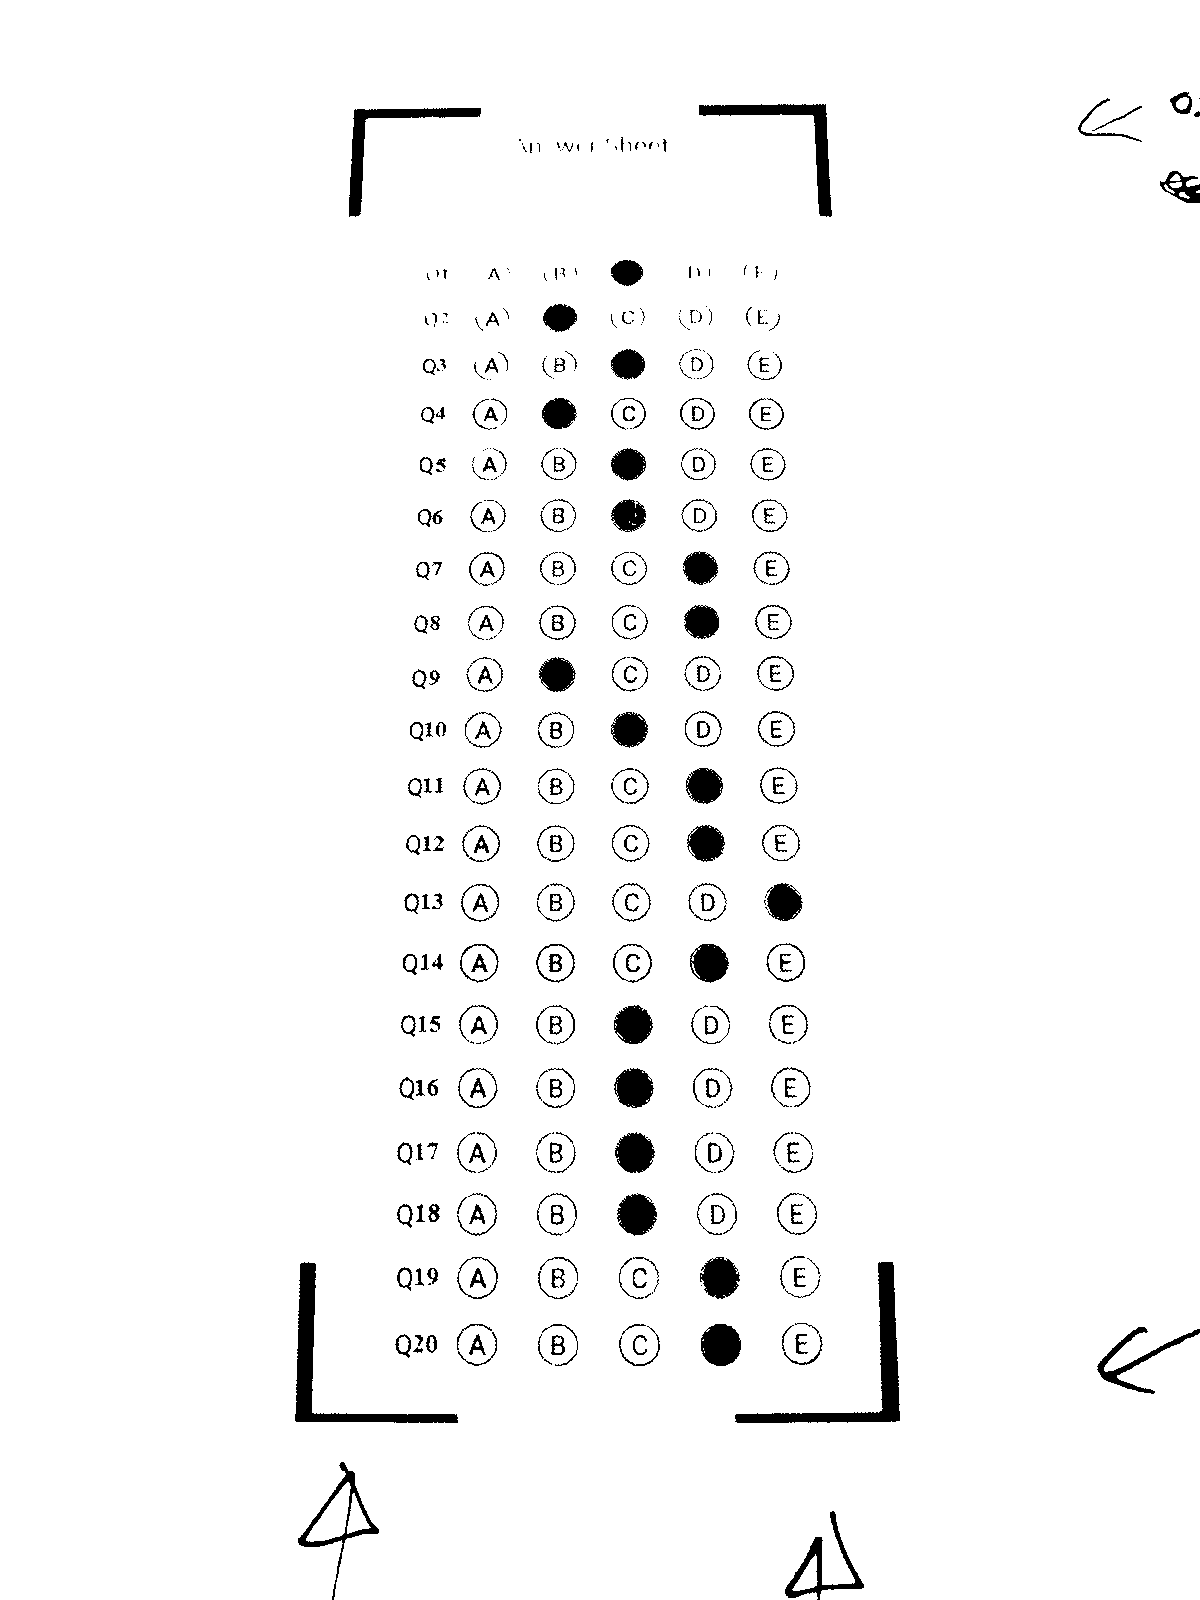
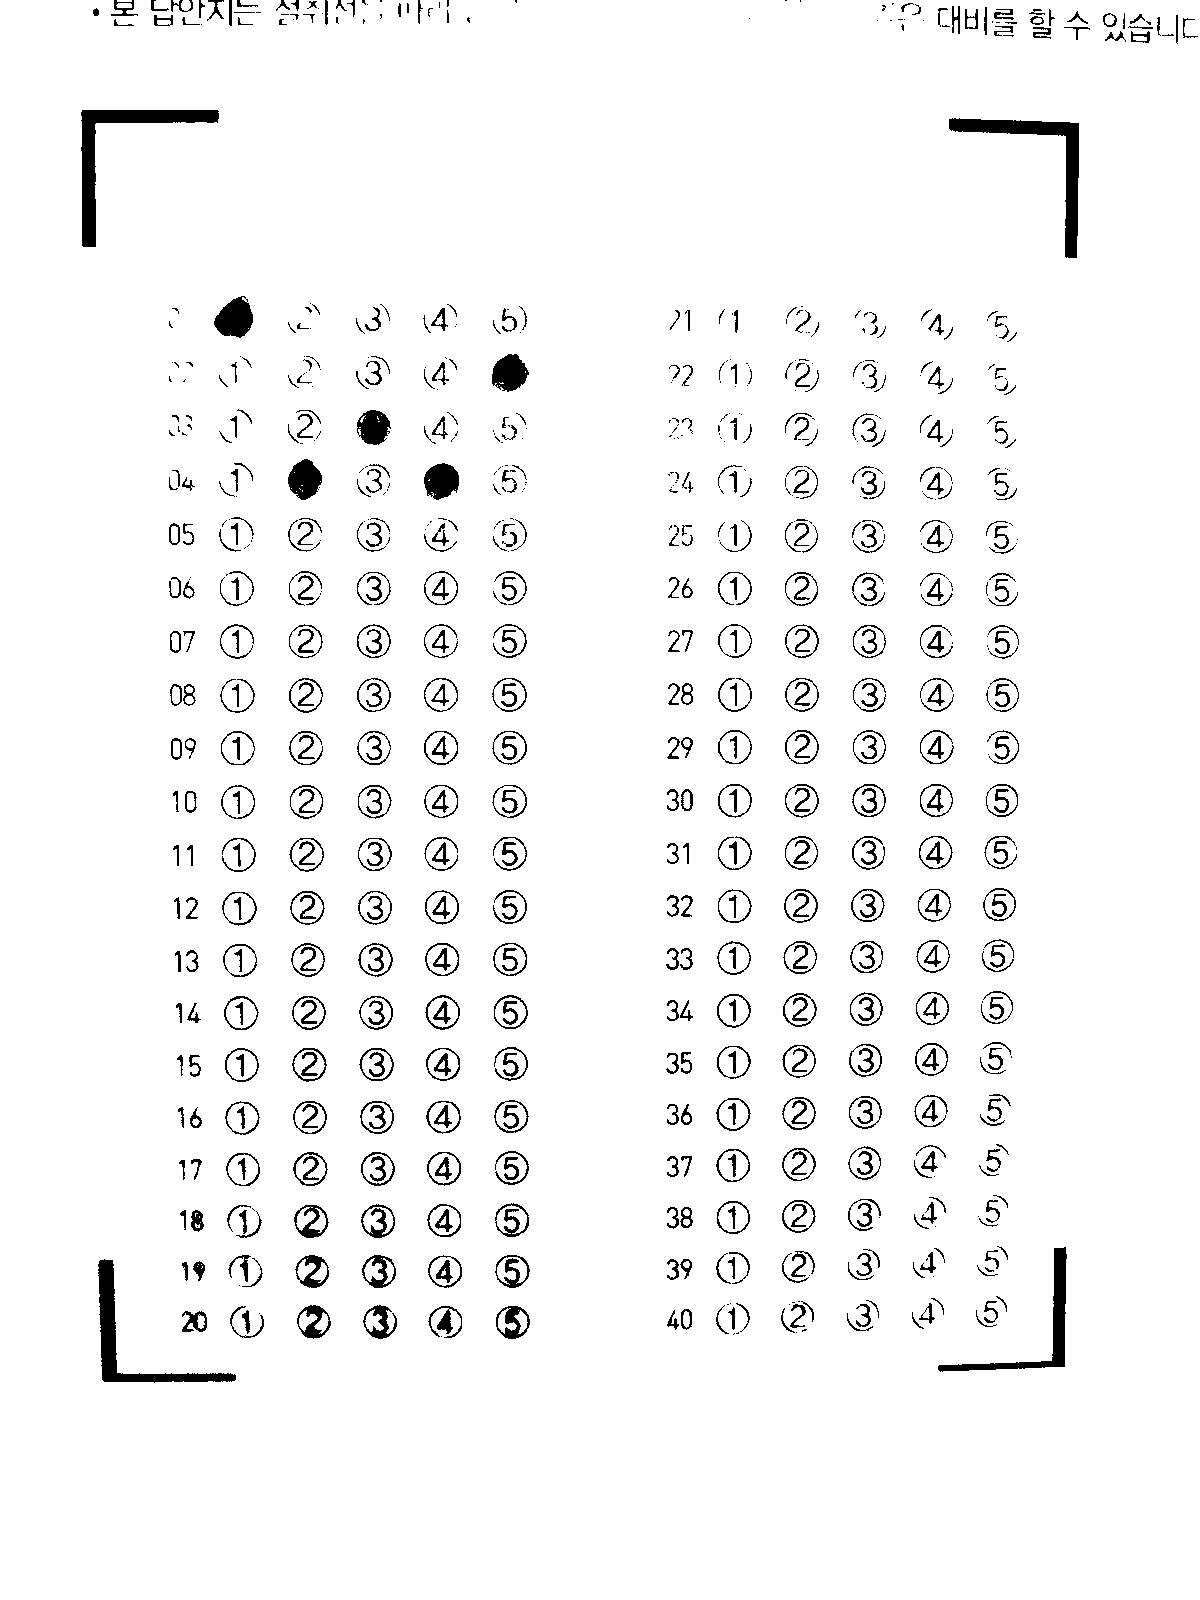
18-04-16

diff --git a/helper/omr.py b/helper/omr.py
@@ -124,34 +124,41 @@ def perspective_transform(img, points , realCorners):
 
 def sheet_coord_to_transf_coord(x, y):
     return list(map(lambda n: int(np.round(n)), (
-        TRANSF_SIZE * x/744.055,
-        TRANSF_SIZE * (1 - y/1934.362)
+        TRANSF_SIZE * x/1470.055,
+        TRANSF_SIZE * (1 - y/1910.362)
     )))
 
 def get_question_patch(transf, q_number):
+    left_end = 189;
+    right_end = 639;
+    if(q_number>20):
+        q_number = q_number-20;
+        left_end = 940;
+        right_end = 1490;
+        
     # Top left
     tl = sheet_coord_to_transf_coord(
-        200,
-        1650 - 82 * (q_number - 1)
+        left_end,
+        1650 - 81 * (q_number - 1)
     )
  #   logging.warning(tl)
     
     # Bottom right
     br = sheet_coord_to_transf_coord(
-        650,
-        1600 - 80 * (q_number - 1)
+        right_end,
+        1600 - 81 * (q_number - 1)
     )
   #  logging.warning(br)
     return transf[tl[1]:br[1], tl[0]:br[0]]
 
 def get_question_patches(transf):
-    for i in range(1, 21):
+    for i in range(1, 41):
         yield get_question_patch(transf, i)
 
 def get_alternative_patches(question_patch):
     for i in range(5):
         x0, _ = sheet_coord_to_transf_coord(100 * i, 0)
-        x1, _ = sheet_coord_to_transf_coord(50 + 100 * i, 0)
+        x1, _ = sheet_coord_to_transf_coord(60 + 100 * i, 0)
         yield question_patch[:, x0:x1]
 
 def draw_marked_alternative(question_patch, index):
